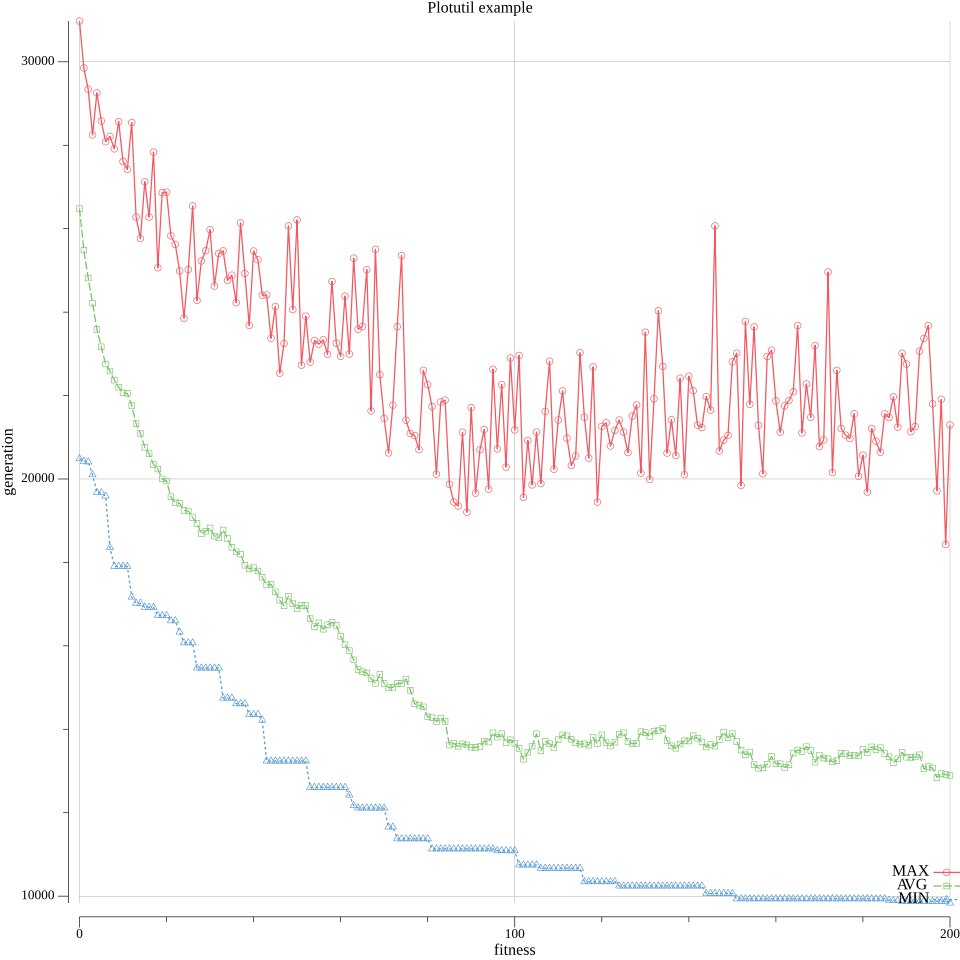
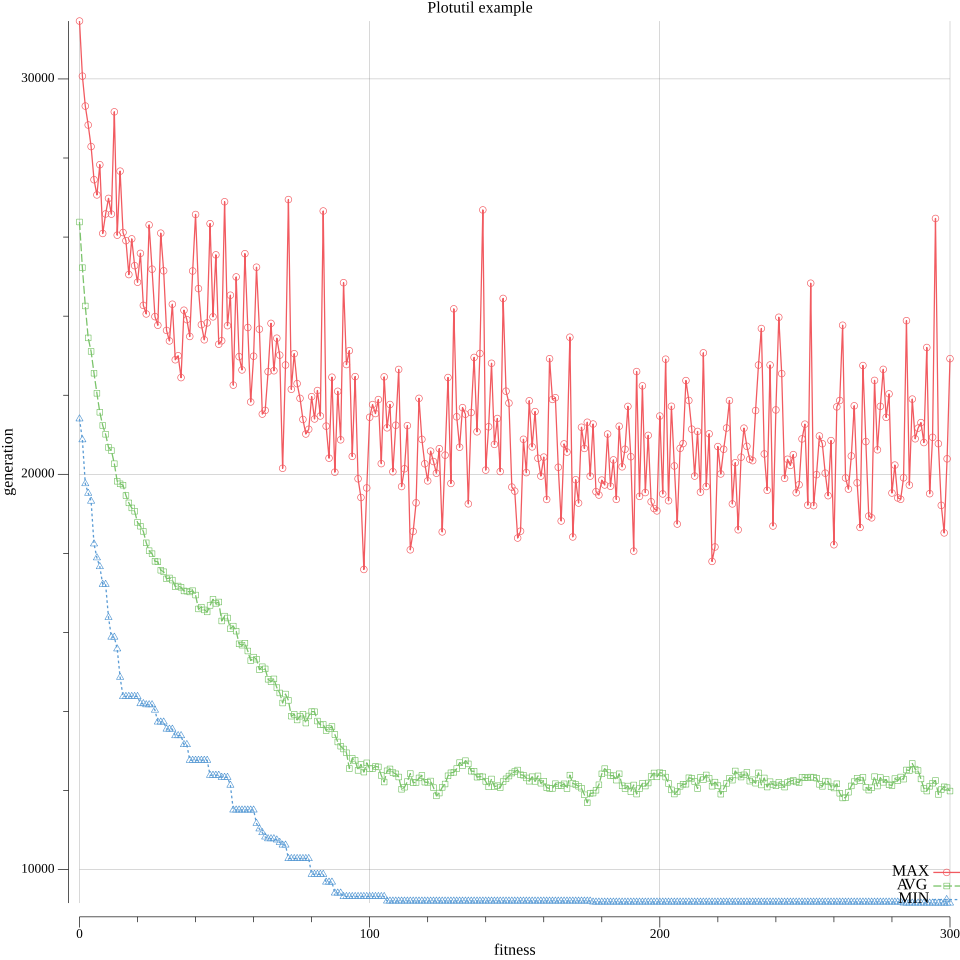
gix errors

diff --git a/examples/04_combinatorial_optimization/02_traveling_salesman/main.go b/examples/04_combinatorial_optimization/02_traveling_salesman/main.go
@@ -8,23 +8,28 @@ import (
 	"github.com/kva3umoda/go-ga/crossover"
 	"github.com/kva3umoda/go-ga/examples/helper"
 	"github.com/kva3umoda/go-ga/fitness"
+	"github.com/kva3umoda/go-ga/genome"
 	"github.com/kva3umoda/go-ga/mutator"
 	"github.com/kva3umoda/go-ga/population"
 	"github.com/kva3umoda/go-ga/selector"
 )
 
 const (
-	TSP_NAME = "bayg29.tsp"
+	TSP_NAME = "bayg29"
 
 	POPULATION_SIZE   = 300
-	MAX_GENERATIONS   = 200
+	MAX_GENERATIONS   = 300
 	HALL_OF_FAME_SIZE = 30
-	P_CROSSOVER       = 0.9 // probability for crossover
-	P_MUTATION        = 0.1 // probability for mutating an individual
+	P_CROSSOVER       = 0.99 // probability for crossover
+	P_MUTATION        = 0.2  // probability for mutating an individual
 )
 
 func main() {
-	mapCities := NewMapCities("examples/04_combinatorial_optimization/02_traveling_salesman/" + TSP_NAME)
+	mapCities := NewMapCities("examples/04_combinatorial_optimization/02_traveling_salesman/" + TSP_NAME + ".tsp")
+
+	var optimal genome.Individual
+	optimal.Genome = loadOptimalPath("examples/04_combinatorial_optimization/02_traveling_salesman/" + TSP_NAME + ".opt.tour")
+	optimal.Cost = mapCities.TotalDistance(optimal.Genome)
 
 	builder := go_ga.NewBuilder().
 		// создание бинарной популяции с размером генома равный коли
@@ -46,7 +51,7 @@ func main() {
 		// Добавляем за славы
 		HallOfFame(HALL_OF_FAME_SIZE).
 		// Элитизм
-		Elitism(3)
+		Elitism(HALL_OF_FAME_SIZE)
 
 	ga, err := builder.Build()
 	if err != nil {
@@ -56,7 +61,13 @@ func main() {
 	ga.Run()
 
 	helper.PlotFitness("examples/04_combinatorial_optimization/02_traveling_salesman/plot.png", ga.Stat())
-	best := ga.BestIndividuals()[0]
-	//printItems(best.Genome)
-	fmt.Println(best)
+	solver := ga.BestIndividuals()[0]
+	fmt.Printf("Solver: %s\n", solver.String())
+	fmt.Printf("Best  : %s\n", optimal.String())
+
+	err = mapCities.Plot("test.png", solver.Genome)
+	if err != nil {
+		log.Fatal(err)
+	}
+
 }

diff --git a/ga.go b/ga.go
@@ -94,23 +94,15 @@ func (ga *GA) Population() *population.Population {
 
 func (ga *GA) Crossing(pop *population.Population) {
 	size := len(pop.Individuals)
-	for i := 0; i < size/2; i++ {
+	for i := 1; i < size; i += 2 {
 		if rand.Float() < ga.crossoverProb {
-			ga.crossover.Crossing(pop.Individuals[i], pop.Individuals[i+1])
+			ga.crossover.Crossing(pop.Individuals[i-1], pop.Individuals[i])
+			pop.Individuals[i-1].Fitness = 0
+			pop.Individuals[i-1].Cost = 0
+			pop.Individuals[i].Fitness = 0
+			pop.Individuals[i].Cost = 0
 		}
-		pop.Individuals[i].Fitness = 0
-		pop.Individuals[i].Cost = 0
-		pop.Individuals[i+1].Fitness = 0
-		pop.Individuals[i+1].Cost = 0
 	}
-	// скрещивание если размер популции нечетное число
-	/*if size/2*2 < size {
-		if rand.Float() < ga.crossoverProb {
-			ga.Crossing(pop.Individuals[size-2], pop.Individuals[size-1])
-			pop.Individuals[size-1].Fitness = 0
-			pop.Individuals[size-1].Cost = 0
-		}
-	} */
 }
 
 func (ga *GA) Fitness(pop *population.Population) {
@@ -126,7 +118,10 @@ func (ga *GA) HallOfFame(pop *population.Population) {
 		return
 	}
 	inds := ga.hallOfFame.Individuals()
-	for i := 0; i < ga.elitismSize; i++ {
+	for i := 0; i < len(inds); i++ {
+		if i >= ga.elitismSize {
+			break
+		}
 		pop.Individuals = append(pop.Individuals, inds[i])
 		ga.stat.Add(ga.generation, inds[i].Cost)
 	}

diff --git a/examples/04_combinatorial_optimization/02_traveling_salesman/tsp.go b/examples/04_combinatorial_optimization/02_traveling_salesman/tsp.go
@@ -7,6 +7,11 @@ import (
 	"os"
 	"strconv"
 	"strings"
+
+	"gonum.org/v1/plot"
+	"gonum.org/v1/plot/plotter"
+	"gonum.org/v1/plot/plotutil"
+	"gonum.org/v1/plot/vg"
 )
 
 type City struct {
@@ -26,6 +31,31 @@ func NewMapCities(fname string) *MapCities {
 
 func (m *MapCities) Distance(i, j int) float64 {
 	return math.Sqrt(math.Pow(m.cities[i].X-m.cities[j].X, 2.0) + math.Pow(m.cities[i].Y-m.cities[j].Y, 2.0))
+}
+
+func (m *MapCities) Plot(fname string, genome []float64) error {
+	p := plot.New()
+
+	p.Title.Text = "Plotutil example"
+	p.X.Label.Text = "X"
+	p.Y.Label.Text = "Y"
+	// Draw a grid behind the data
+	//bs, err := plotter.NewPolygon(bubbleData, vg.Points(1), vg.Points(20))
+	p.Add(plotter.NewGrid())
+	for _, city := range m.cities {
+		point := plotter.Values{city.X - 10.0, city.Y - 10.0, city.X + 10.0, city.Y + 10.0}
+
+		err := plotutil.AddBoxPlots(p, 2.0, city.Name, point)
+		if err != nil {
+			return err
+		}
+	}
+
+	// Save the plot to a PNG file.
+	if err := p.Save(10*vg.Inch, 10*vg.Inch, fname); err != nil {
+		panic(err)
+	}
+	return nil
 }
 
 func (m *MapCities) TotalDistance(genome []float64) float64 {
@@ -123,7 +153,10 @@ func loadOptimalPath(fname string) []float64 {
 		if err != nil {
 			log.Fatal(err)
 		}
-		genome = append(genome, f)
+		if f < 0 {
+			continue
+		}
+		genome = append(genome, f-1)
 	}
 	return genome
 }

diff --git a/genome/individual.go b/genome/individual.go
@@ -1,5 +1,7 @@
 package genome
 
+import "fmt"
+
 // Индивидум с геномом int
 type Individual struct {
 	Fitness float64   // приспособленность
@@ -45,4 +47,8 @@ func (ind *Individual) Equal(other *Individual) bool {
 	}
 
 	return true
+}
+
+func (ind *Individual) String() string {
+	return fmt.Sprintf("cost: %v, genome: %+v", ind.Cost, ind.Genome)
 }

diff --git a/examples/helper/plot.go b/examples/helper/plot.go
@@ -41,3 +41,4 @@ func points(v []float64) plotter.XYs {
 	}
 	return pts
 }
+

diff --git a/examples/04_combinatorial_optimization/03_vehicle_routing/main.go b/examples/04_combinatorial_optimization/03_vehicle_routing/main.go
@@ -1,0 +1,5 @@
+package main
+
+func main() {
+
+}

diff --git a/examples/04_combinatorial_optimization/03_vehicle_routing/vrp.go b/examples/04_combinatorial_optimization/03_vehicle_routing/vrp.go
@@ -1,0 +1,2 @@
+package main
+
